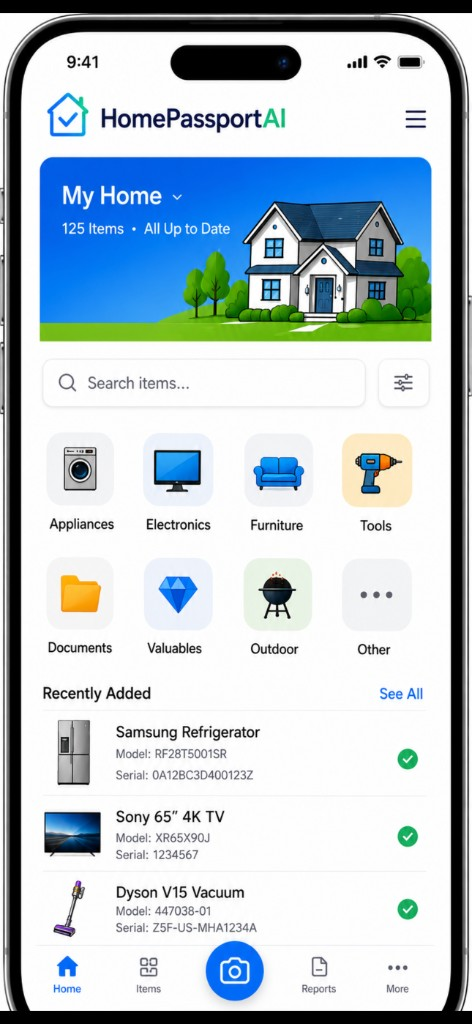
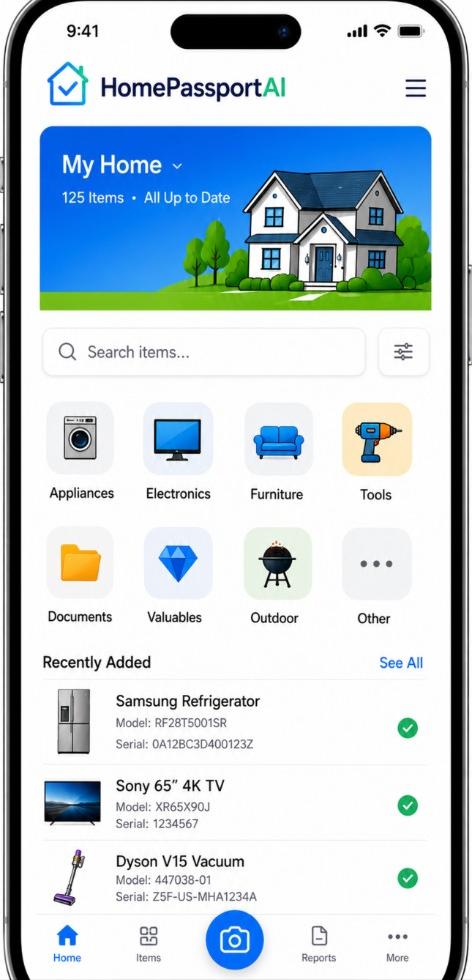
updates

diff --git a/css/app.css b/css/app.css
@@ -1588,22 +1588,15 @@ body {
 .landing__banner-brand {
   display: flex;
   align-items: center;
-  gap: 0.55rem;
   min-width: 0;
+  flex: 1 1 auto;
 }
 
-.landing__banner-icon-img {
+.landing__banner-header-img {
   display: block;
   width: auto;
   height: 2.75rem;
-  flex-shrink: 0;
-}
-
-.landing__banner-wordmark-img {
-  display: block;
-  width: auto;
-  height: 2.1rem;
-  max-width: min(100%, 18rem);
+  max-width: min(100%, 22rem);
   object-fit: contain;
   object-position: left center;
 }
@@ -1837,12 +1830,9 @@ body {
     flex: 1 1 100%;
   }
 
-  .landing__banner-icon-img {
+  .landing__banner-header-img {
     height: 2.35rem;
-  }
-
-  .landing__banner-wordmark-img {
-    height: 1.75rem;
+    max-width: 100%;
   }
 
   .landing__top-buttons {
@@ -1858,13 +1848,9 @@ body {
     padding-top: calc(1.1rem + var(--safe-top));
   }
 
-  .landing__banner-icon-img {
-    height: 3.1rem;
-  }
-
-  .landing__banner-wordmark-img {
-    height: 2.35rem;
-    max-width: 20rem;
+  .landing__banner-header-img {
+    height: 3.25rem;
+    max-width: 26rem;
   }
 
   .landing__banner-tagline {

diff --git a/index.html b/index.html
@@ -33,7 +33,7 @@
       href="https://fonts.googleapis.com/css2?family=DM+Sans:opsz,wght@9..40,400;9..40,500;9..40,600;9..40,700&family=Montserrat:wght@400;600;700&display=swap"
       rel="stylesheet"
     />
-    <link rel="stylesheet" href="./css/app.css?v=63" />
+    <link rel="stylesheet" href="./css/app.css?v=64" />
   </head>
   <body>
     <div id="app" class="app">
@@ -103,19 +103,11 @@
             <div class="landing__banner-top">
               <div class="landing__banner-brand">
                 <img
-                  class="landing__banner-icon-img"
-                  src="./icons/brand-icon.png?v=1"
-                  alt=""
-                  width="56"
-                  height="56"
-                  decoding="async"
-                />
-                <img
-                  class="landing__banner-wordmark-img"
-                  src="./icons/brand-wordmark.png?v=1"
+                  class="landing__banner-header-img"
+                  src="./icons/brand-header.png?v=2"
                   alt="HomePassportAI"
-                  width="424"
-                  height="52"
+                  width="557"
+                  height="112"
                   decoding="async"
                 />
               </div>
@@ -197,7 +189,7 @@
             <div class="landing__phone-col">
               <img
                 class="landing__phone-straight"
-                src="./images/landing-phone-straight.png?v=3"
+                src="./images/landing-phone-straight.png?v=4"
                 alt="HomePassportAI app on iPhone — My Home screen with house illustration, categories, and recently added items"
                 decoding="async"
               />

diff --git a/js/config.js b/js/config.js
@@ -1,7 +1,7 @@
 /** @readonly */
 import { runtimeConfig } from "./runtime-config.js";
 
-export const APP_VERSION = "0.9.12";
+export const APP_VERSION = "0.9.15";
 
 function resolveAnalyzeApiUrl() {
   if (typeof location === "undefined") return "/api/analyze";